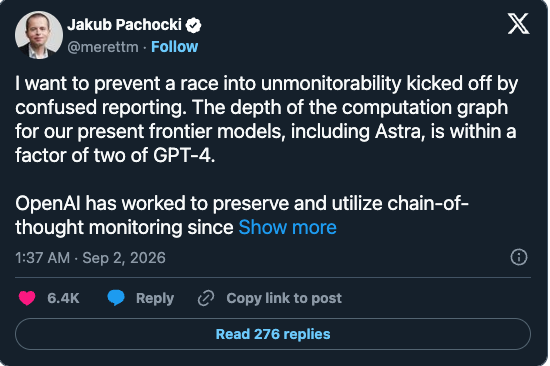
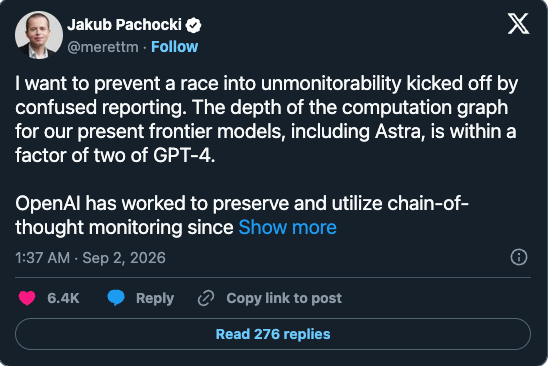
Polish: crop 2px white strip off the Pachocki tweet screenshot; drop Chinese glosses from the formula cards so the slide stays all-English (Chinese lives in the speaker script)

diff --git a/present/js/main.js b/present/js/main.js
@@ -251,27 +251,27 @@
       html: `
         <div class="f-grid">
           <div class="f-card">
-            <div class="f-head"><span class="f-abbr">PCA</span><span class="f-full">principal component analysis · 主成分分析</span></div>
+            <div class="f-head"><span class="f-abbr">PCA</span><span class="f-full">principal component analysis</span></div>
             <div class="f-formula">C = X̃<sup>⊤</sup>X̃ / (n−1),&nbsp;&nbsp;C v<sub>k</sub> = λ<sub>k</sub> v<sub>k</sub></div>
             <div class="f-plain">rotate the point cloud so the biggest spread comes first — then plot the top two axes. <b>No labels used.</b></div>
           </div>
           <div class="f-card">
-            <div class="f-head"><span class="f-abbr">LR</span><span class="f-full">logistic regression · 逻辑回归</span></div>
+            <div class="f-head"><span class="f-abbr">LR</span><span class="f-full">logistic regression</span></div>
             <div class="f-formula">p = σ(w<sup>⊤</sup>x) = 1 / (1 + e<sup>−w<sup>⊤</sup>x</sup>)</div>
             <div class="f-plain">the classifier from class: a weighted sum squashed into a probability, trained by gradient descent. <b>Judgment, no generation.</b></div>
           </div>
           <div class="f-card">
-            <div class="f-head"><span class="f-abbr">MM / LDA</span><span class="f-full">mass-mean · Fisher's linear discriminant · 均值差 / 费希尔判别</span></div>
+            <div class="f-head"><span class="f-abbr">MM / LDA</span><span class="f-full">mass-mean · Fisher's linear discriminant</span></div>
             <div class="f-formula">θ = μ<sup>+</sup> − μ<sup>−</sup>;&nbsp;&nbsp;Fisher: w ∝ S<sub>w</sub><sup>−1</sup>(μ<sup>+</sup> − μ<sup>−</sup>)</div>
             <div class="f-plain">point from the false cloud's center to the true cloud's center; Fisher whitens by the within-class covariance S<sub>w</sub>. <b>Closed form, no training.</b></div>
           </div>
           <div class="f-card">
-            <div class="f-head"><span class="f-abbr">CCS</span><span class="f-full">contrast-consistent search · 对比一致搜索</span></div>
+            <div class="f-head"><span class="f-abbr">CCS</span><span class="f-full">contrast-consistent search</span></div>
             <div class="f-formula">min<sub>θ</sub> Σ [ (p<sub>θ</sub>(x<sup>+</sup>) + p<sub>θ</sub>(x<sup>−</sup>) − 1)<sup>2</sup> + min(p<sub>θ</sub>, 1−p<sub>θ</sub>)<sup>2</sup> ]</div>
             <div class="f-plain">needs <b>no labels</b>: a statement and its negation must get opposite, confident answers.</div>
           </div>
           <div class="f-card wide">
-            <div class="f-head"><span class="f-abbr">Logit lens</span><span class="f-full">逻辑透镜 · decode any layer into vocabulary</span></div>
+            <div class="f-head"><span class="f-abbr">Logit lens</span><span class="f-full">decode any layer into vocabulary</span></div>
             <div class="f-formula">logits<sub>ℓ</sub> = W<sub>U</sub> · LayerNorm( h<sub>ℓ</sub> )&nbsp;&nbsp;→&nbsp;&nbsp;rank of the secret word at layer ℓ</div>
             <div class="f-plain">borrow the model's <b>own output head</b> and ask each middle layer: what would you say right now? This is how we locate <b>at which layer the model lies</b>.</div>
           </div>
